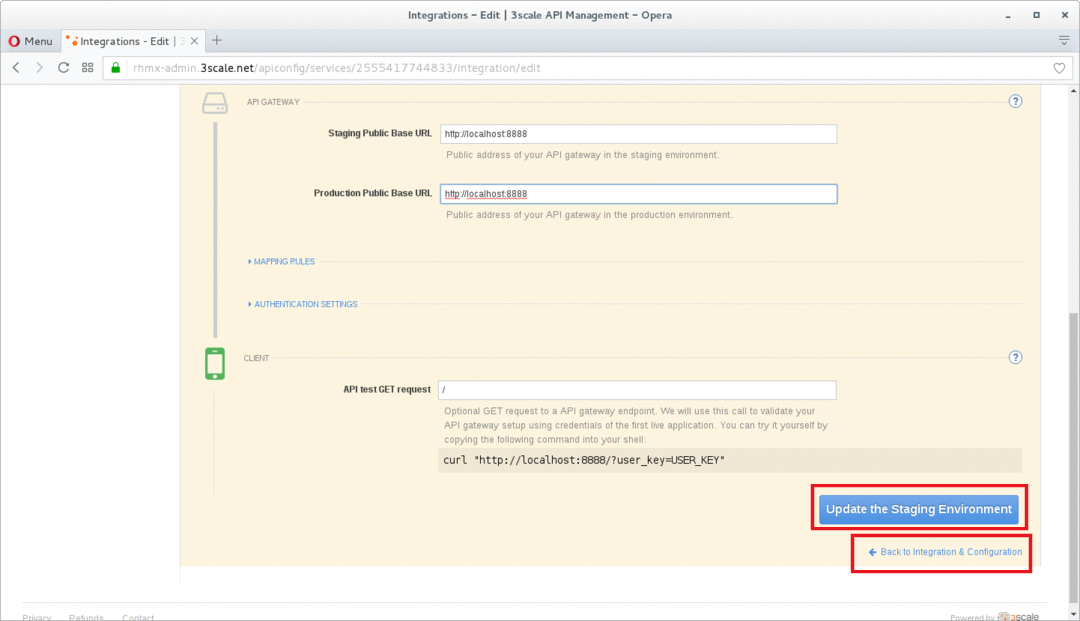
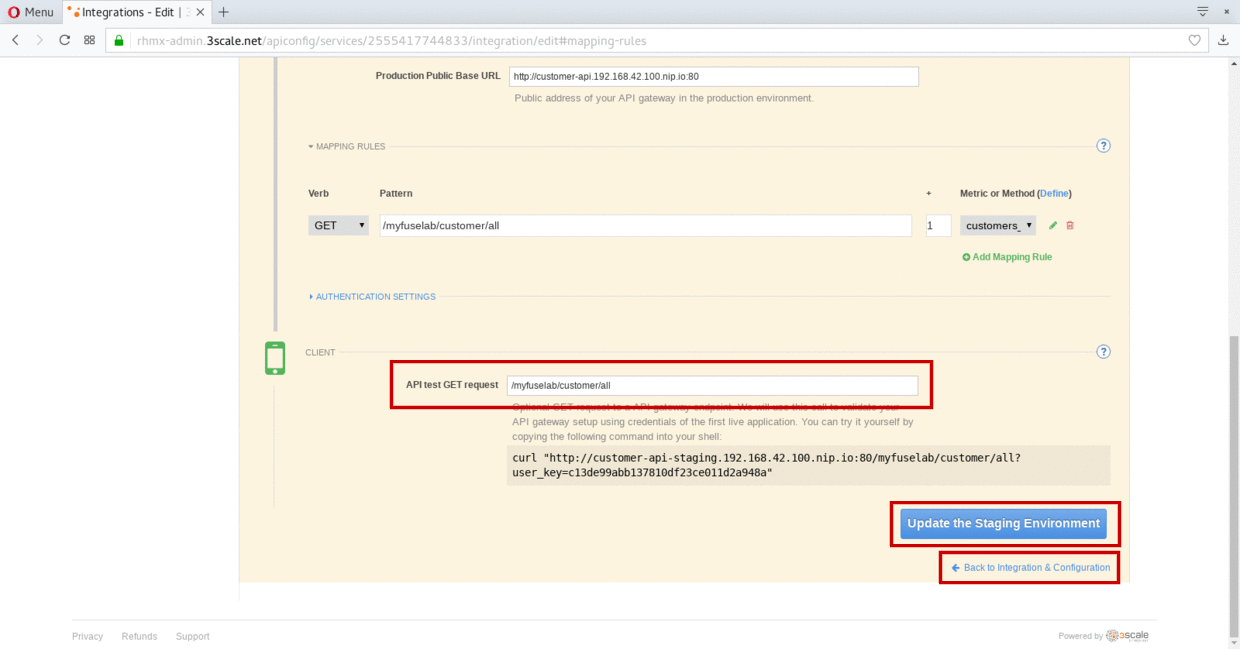
added mapping rules steps

Changed region(s): [[0.0, 0.0, 1.0, 1.0], [0.3056, 0.5507, 0.825, 0.7649], [0.0, 0.9791, 0.1833, 1.0]]

diff --git a/lab02/README.md b/lab02/README.md
@@ -129,33 +129,33 @@ In order to connect your Customers API to 3scale, you need to follow three simpl
 
 #### Review Pre-Reqs
 
-Before provisioning an on-premise API gateway environment, you will want to check on the following regarding your 3Scale SaaS account :
+Before provisioning an on-premise API gateway environment, you will want to check on the following regarding your 3scale SaaS account :
 
-1. 3Scale Domain
-    * You should know what the domain name is of your 3Scale SaaS accoount is.
+1. 3scale Domain
+    * You should know what the domain name is of your 3scale SaaS accoount is.
 
-    * The name of your 3Scale domain is referenced in the URL to your Administrative Portal of the 3Scale SaaS environment. ie: https://&lt;YOURDOMAIN&gt;-admin.3scale.net/p/admin/dashboard.
+    * The name of your 3scale domain is referenced in the URL to your Administrative Portal of the 3scale SaaS environment. ie: https://&lt;YOURDOMAIN&gt;-admin.3scale.net/p/admin/dashboard.
 
-1. 3Scale Access Token
+1. 3scale Access Token
     * To get an Access Token, you can easily create one by navigating to:
 
-    `Gear Icon in top right corner -> Personal Settings -> Tokens -> Add Access Token`
+        `Gear Icon in top right corner -> Personal Settings -> Tokens -> Add Access Token`
 
-    ![00-accesstoken-a.png](./img/00-accesstoken-a.png)
+        ![00-accesstoken-a.png](./img/00-accesstoken-a.png)
 
-    ![00-accesstoken-b.png](./img/00-accesstoken-b.png)
+        ![00-accesstoken-b.png](./img/00-accesstoken-b.png)
 
-    ![00-accesstoken-c.png](./img/00-accesstoken-c.png)
+        ![00-accesstoken-c.png](./img/00-accesstoken-c.png)
 
-    ![00-accesstoken-d.png](./img/00-accesstoken-d.png)
+        ![00-accesstoken-d.png](./img/00-accesstoken-d.png)
 
-    + The scope of your access token should include access to all three allowed APIs: Billing, Account Management and Analytics.
+    + The scope of your access token should be: *Account Management API*.
 
-    * Also ensure that your access token has read / write permissions.
+    * Also ensure that your access token has *Read Only* permissions.
 
-    ![00-accesstoken-e.png](./img/00-accesstoken-e.png)
+        ![00-accesstoken-e.png](./img/00-accesstoken-e.png)
 
-    **Note: Don't forget to copy your token into a safe place as this is the only point where you'll be able to view it.**
+    **Note: Don't forget to copy your token into a safe place as this is the only point where you'll be able to view it. If you fail to do so, you can always create a new access token.**
 
 #### Step 1: Define your API
 
@@ -187,9 +187,61 @@ Your 3scale Admin Portal (http://&lt;YOURDOMAIN&gt;-admin.3scale.net) provides a
     ![06-configure-apicast.png](./img/06-configure-apicast.png)
 
 1. Click on the **add the Base URL of your API and save the configuration** button
-1. Fill in the information for accessing your API. The private Base URL is the camel servlet and default port `<HOST-SERVER-IP>:8080`. For this lab, we are going to use the route from the APIcast Gateway deployed on Openshift: `http://customer-api-staging.<OPENSHIFT-SERVER-IP>.nip.io:80` for staging and `http://customer-api-production.<OPENSHIFT-SERVER-IP>.nip.io:80` for production.
+1. Fill in the information for accessing your API.
+
+    The private Base URL is the camel servlet and default port `<HOST-SERVER-IP>:8080`.
+
+    For this lab, we are going to use the route from the APIcast Gateway deployed on Openshift: `http://customer-api-staging.<OPENSHIFT-SERVER-IP>.nip.io:80` for staging and `http://customer-api-production.<OPENSHIFT-SERVER-IP>.nip.io:80` for production.
 
     ![07-baseurl-configuration.png](./img/07-baseurl-configuration.png)
+
+1. Expand the **mapping rules** section to define the allowed methods on our exposed API.
+
+    **Note:** the default mapping is the root ("/") of our API resources, something that we might want to avoid.
+
+    ![07b-mapping-rules.png](./img/07b-mapping-rules.png)
+
+1. Click on the **Metric or Method (Define)**  link.
+
+    ![07b-mapping-rules-define.png](./img/07b-mapping-rules-define.png)
+
+1. Click on the **New Method** link in the *Methods* section.
+
+    ![07b-new-method.png](./img/07b-new-method.png)
+
+1. Fill in the information for your Fuse Method.
+
+    **Friendly name:** `Get Customers`
+
+    **System name:** `customers_all`
+
+    **Description:** `Method to return all customers`
+
+    ![07b-new-method-data.png](./img/07b-new-method-data.png)
+
+1. Click on **Create Method**
+
+1. **Optional:** Add the *Get Customer* method if you followed the instructions in the previous part of this lab to search by {id}.
+
+1. Click on the **Add mapping rule** link
+
+    ![07b-add-mapping-rule.png](./img/07b-add-mapping-rule.png)
+
+1. Click on the edit icon next to the GET mapping rule.
+
+    ![07b-edit-mapping-rule.png](./img/07b-edit-mapping-rule.png)
+
+1. Enter `/myfuselab/customer/all` as the Pattern.
+
+1. Select `customers_all` as Method.
+
+    ![07b-getall-rule.png](./img/07b-getall-rule.png)
+
+1. *Optional::* Click on the **Add Mapping Rule** button to add the `Get Customer` method mapping.
+
+1. Scroll down to the **API Test GET request**.
+
+1. Enter `/myfuselab/customer/all`.
 
 1. Click on the **Update the Staging Environment** to save the changes and thenk click on the **Back to Integration & Configuration** link.
 
@@ -271,7 +323,9 @@ In 3scale terms, *applications* define the credentials to access your API. An ap
     oc secret new-basicauth apicast-configuration-url-secret --password=https://<ACCESS_TOKEN>@<DOMAIN>-admin.3scale.net
     ```
 
-    Here &lt;ACCESS_TOKEN&gt; is an Access Token (not a Service Token) for the 3scale Account Management API, and &lt;DOMAIN&gt;-admin.3scale.net is the URL of your 3scale Admin Portal.
+    Here **&lt;ACCESS_TOKEN&gt;** is an Access Token (not a Service Token) for the 3scale Account Management API, and **&lt;DOMAIN&gt;-admin.3scale.net** is the URL of your 3scale Admin Portal.
+
+    *You got his access token and domain in the Pre-Reqs section.*
 
     The response should look like this:
 
@@ -381,4 +435,4 @@ In 3scale terms, *applications* define the credentials to access your API. An ap
 
     The *HTTP/1.1 403 Forbidden* response code indicates that our user_key was wrong or we don't have permisson to access this API endpoint.
 
-1. You have sucessfully configured 3Scale API Management and Gateway to access your API.
+1. You have sucessfully configured 3scale API Management and Gateway to access your API.
